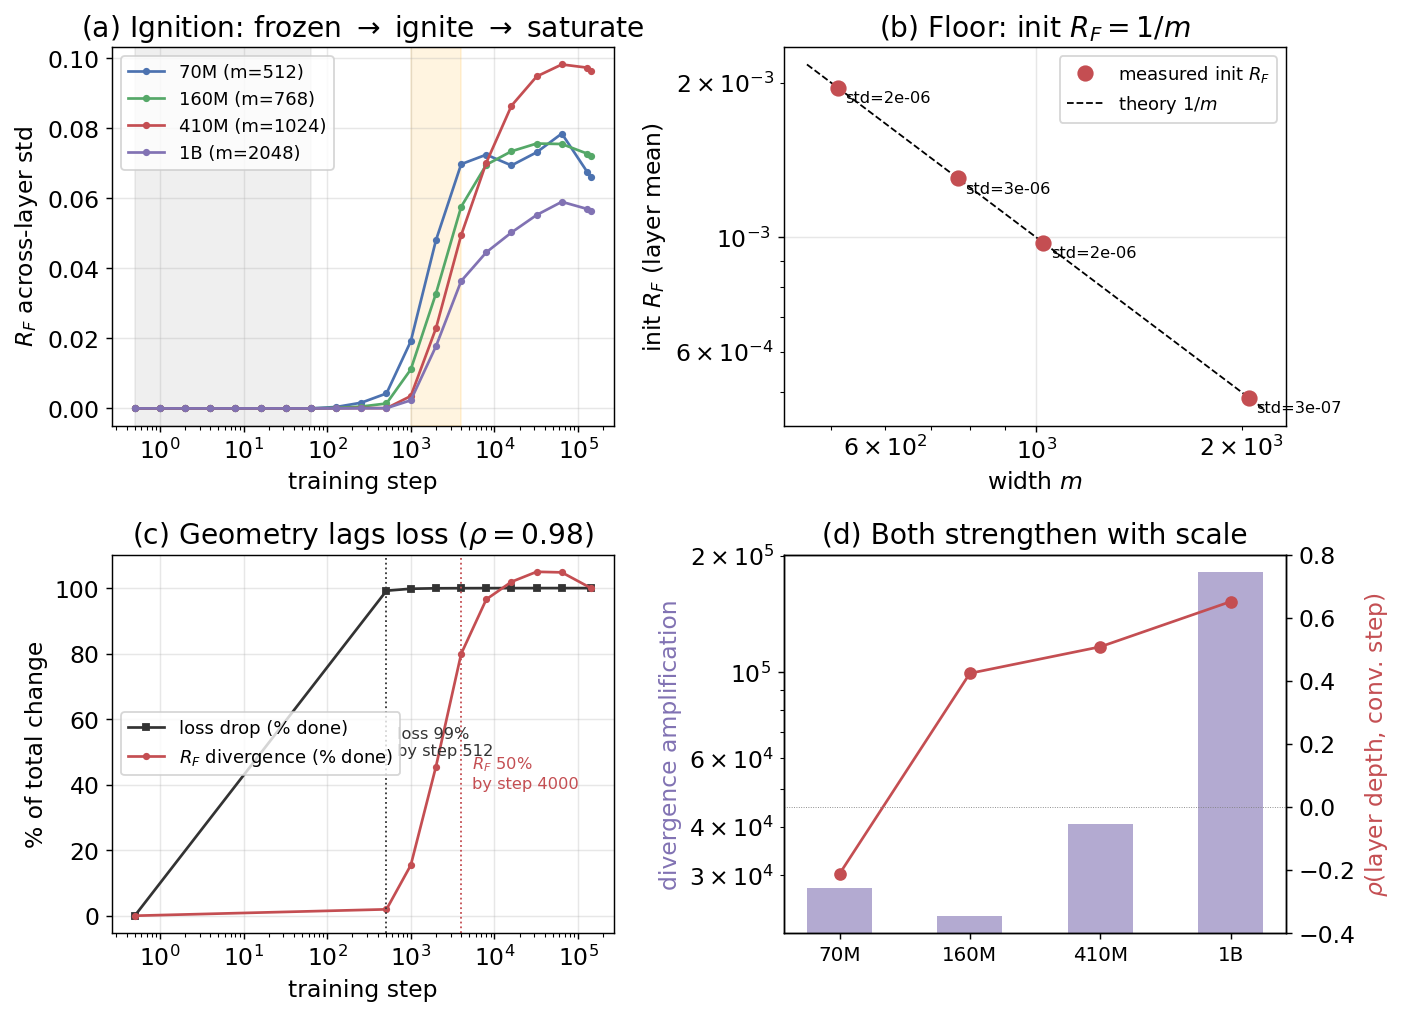
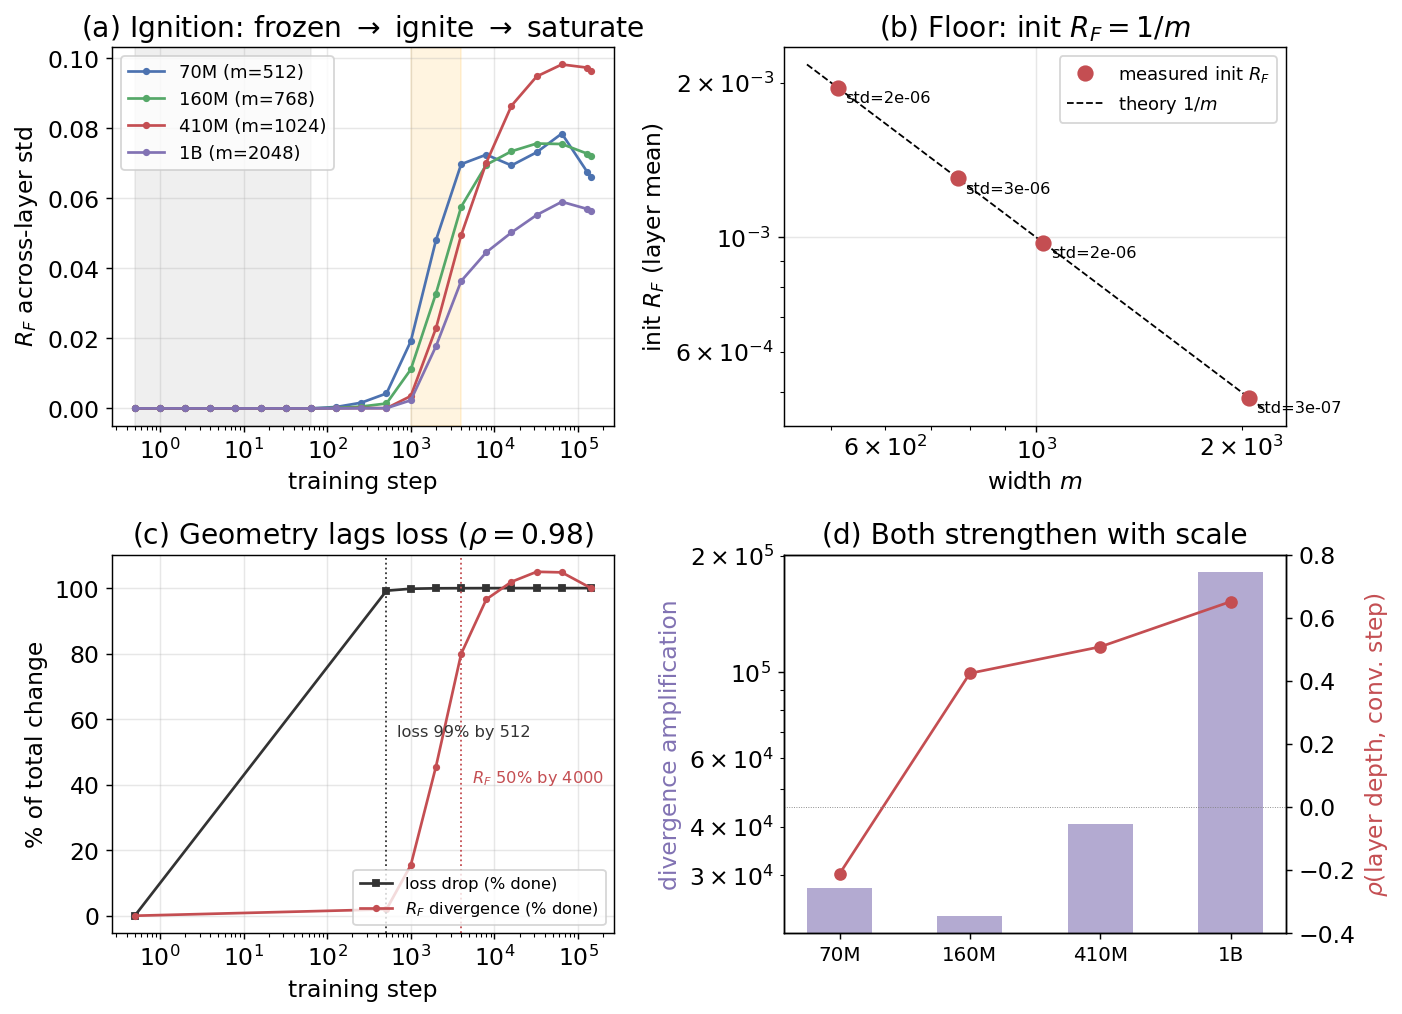
Figure polish: shorten OLMo subplot titles (fix overlap); declutter Pythia panel (c) legend/annotations

Changed region(s): [[0.092, 0.7032, 0.4294, 0.7949], [0.2454, 0.856, 0.4294, 0.9172]]

diff --git a/experiments/fig_training_dynamics.py b/experiments/fig_training_dynamics.py
@@ -64,11 +64,11 @@ ax[2].plot(xm, 100 * std_prog, '-o', ms=3, color='#C44E52', label='$R_F$ diverge
 ax[2].axvline(512, color='#333', ls=':', lw=1); ax[2].axvline(4000, color='#C44E52', ls=':', lw=1)
 ax[2].set_xscale('log'); ax[2].set_xlabel('training step'); ax[2].set_ylabel('% of total change')
 ax[2].set_title('(c) Geometry lags loss ($\\rho=0.98$)')
-ax[2].annotate('loss 99%\nby step 512', (512, 50), fontsize=9, color='#333',
-               textcoords='offset points', xytext=(6, -2))
-ax[2].annotate('$R_F$ 50%\nby step 4000', (4000, 50), fontsize=9, color='#C44E52',
-               textcoords='offset points', xytext=(6, -20))
-ax[2].legend(fontsize=10, loc='center left')
+ax[2].annotate('loss 99% by 512', (512, 50), fontsize=9, color='#333', ha='left', va='bottom',
+               textcoords='offset points', xytext=(6, 7))
+ax[2].annotate('$R_F$ 50% by 4000', (4000, 50), fontsize=9, color='#C44E52', ha='left', va='top',
+               textcoords='offset points', xytext=(6, -9))
+ax[2].legend(fontsize=9, loc='lower right')
 
 # (d) scaling: amplification and position-structure vs size
 amp = [A[mk]['divergence_amplification'] for mk in MODELS]

diff --git a/experiments/fig_olmo.py b/experiments/fig_olmo.py
@@ -15,7 +15,7 @@ ppl = [ck[str(s)]['val_ppl'] for s in steps]
 floor = d['floor']['rf_mean']; m = d['floor']['m']
 
 plt.rcParams.update({'font.size': 12})
-fig, ax = plt.subplots(1, 2, figsize=(10, 3.3))
+fig, ax = plt.subplots(1, 2, figsize=(11, 3.3))
 
 # (a) R_F mean & std vs step, with floor (re-init) and the trajectory (public ckpts >= step 1000)
 ax[0].axhline(1.0/m, color='k', ls='--', lw=1, label=f'theory floor $1/m={1/m:.2e}$')
@@ -27,7 +27,7 @@ ax[0].axvspan(20000, 740000, color='gray', alpha=0.08)
 ax[0].annotate('non-monotone\nlate phase', (1.2e5, 0.05), fontsize=8, color='gray')
 ax[0].set_xscale('log'); ax[0].set_yscale('log')
 ax[0].set_xlabel('training step'); ax[0].set_ylabel(r'$R_F$')
-ax[0].set_title('(a) OLMo-1B: floor (re-init) + post-ignition differentiation')
+ax[0].set_title('(a) Floor (re-init) + post-ignition rise', fontsize=11)
 ax[0].legend(fontsize=9, loc='lower right')
 
 # (b) R_F std vs PPL: geometry forms as loss falls
@@ -37,7 +37,7 @@ for i, s in enumerate(steps):
         ax[1].annotate(f'step {s}', (ppl[i], std[i]), fontsize=8,
                        textcoords='offset points', xytext=(4, 3))
 ax[1].set_xlabel('validation PPL'); ax[1].set_ylabel(r'$R_F$ across-layer std')
-ax[1].set_title('(b) Differentiation through the bulk; non-monotone late')
+ax[1].set_title('(b) Bulk differentiation; non-monotone late', fontsize=11)
 ax[1].invert_xaxis(); ax[1].grid(alpha=0.3)
 
 plt.tight_layout()